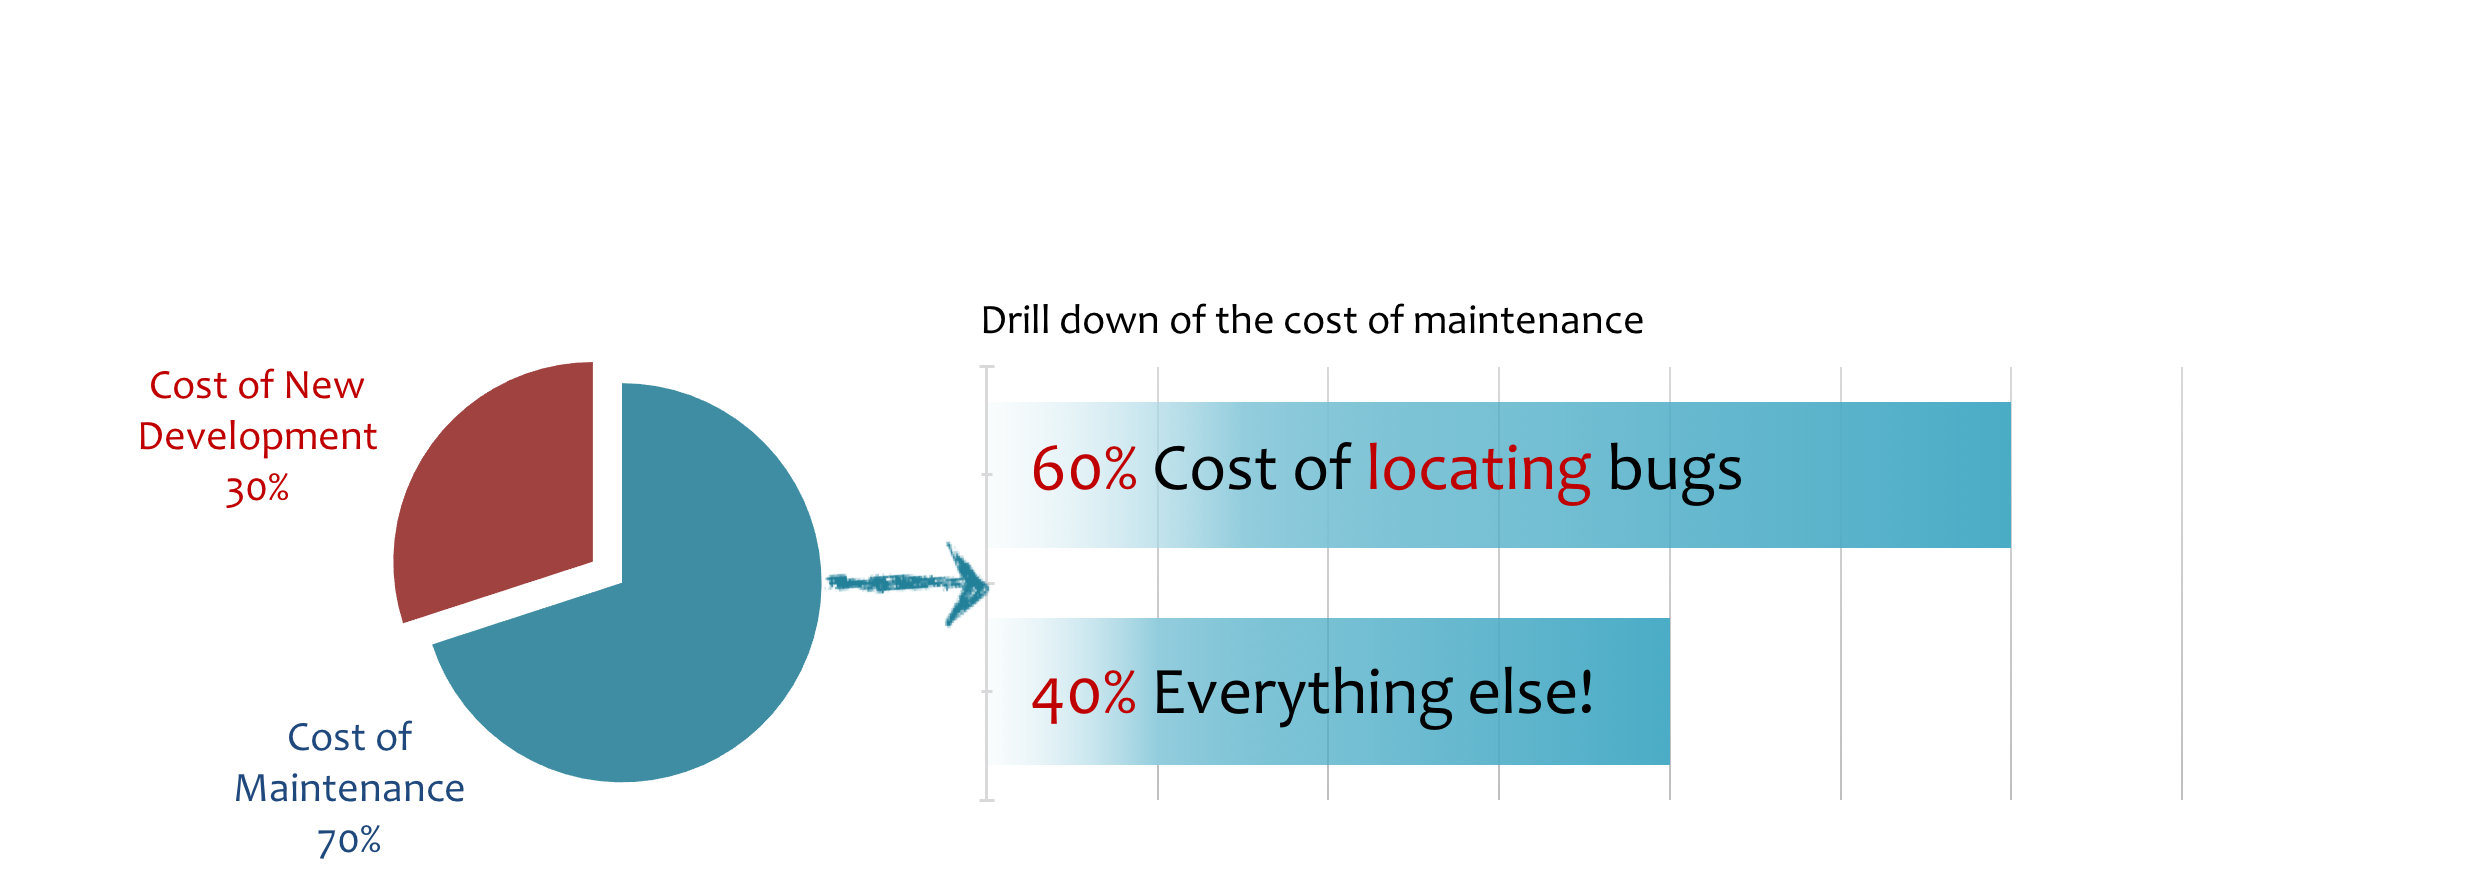
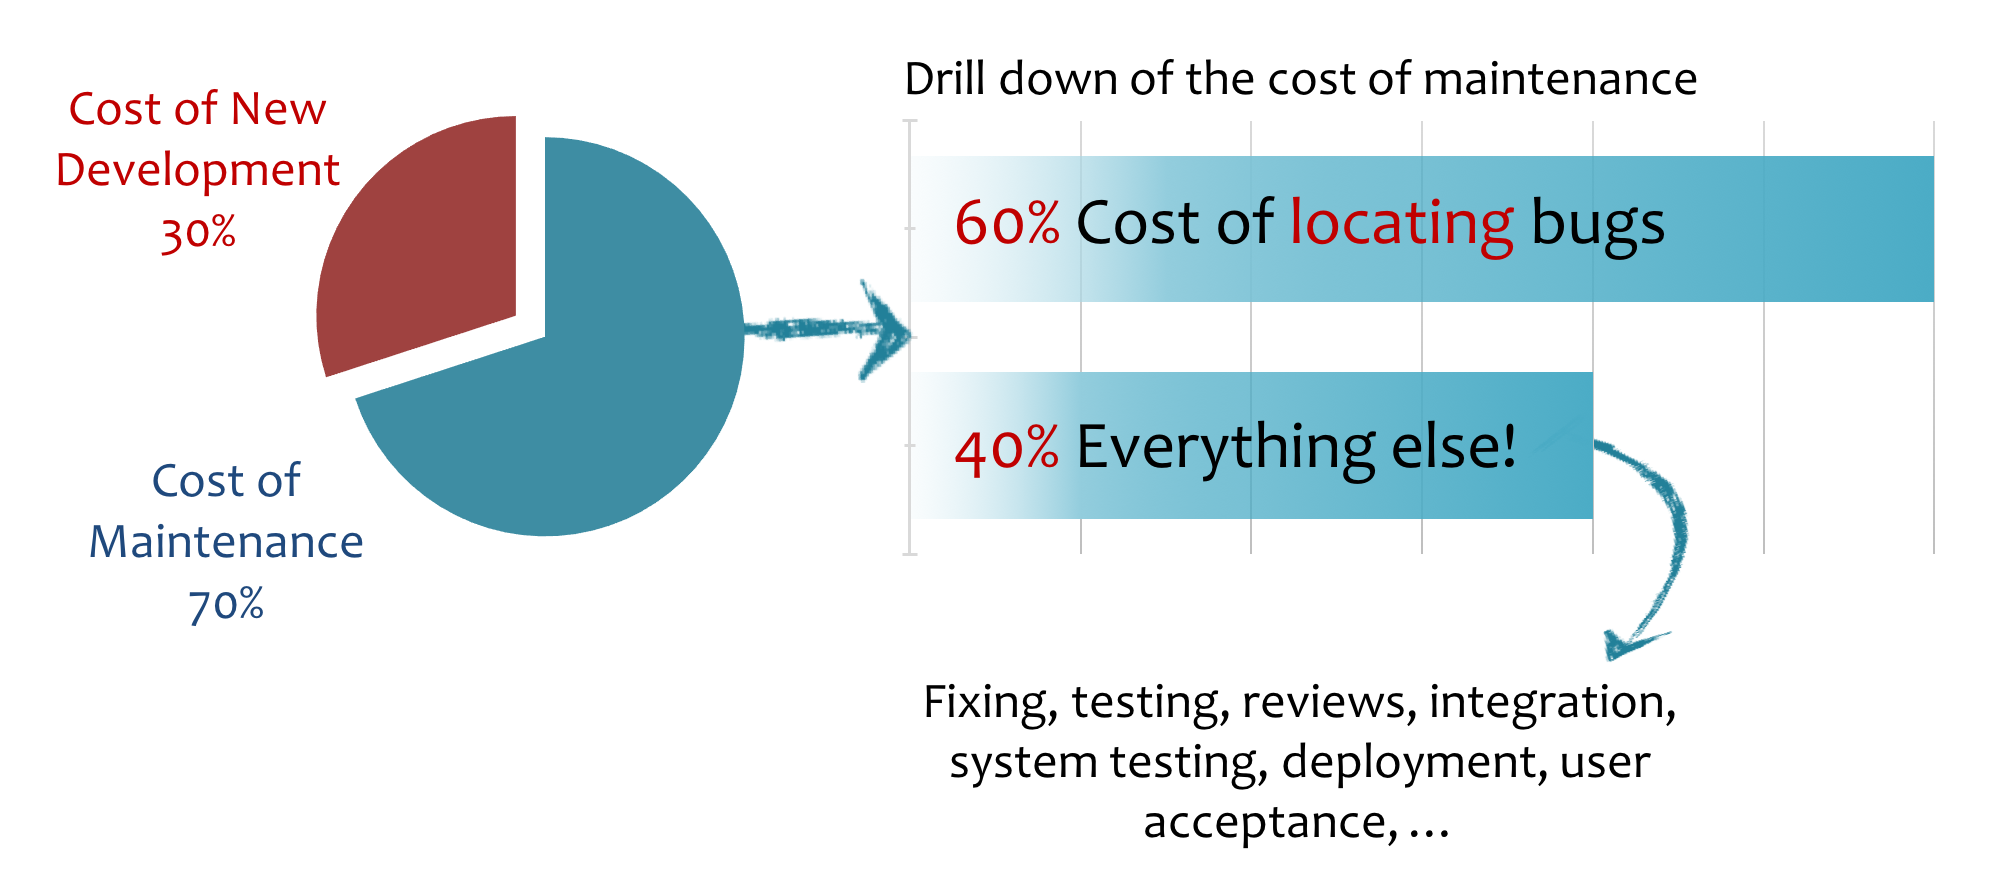
image fix #2

diff --git a/manuscript/main.md b/manuscript/main.md
@@ -91,7 +91,7 @@ Removing dead code is a quick win by all means. It doesn't take time and gives a
 {icon=quote-left}
 G> *Duplication may be the root of all evil in software*
 G>
-G> *\- Robert C Martin, in his book: Clean Coding - A Handbook of Agile Software Craftsmanship *
+G> *\- Robert C Martin*
 
 It is interesting to read what gurus write about code duplication. It is like writing about a plague or a catastrophe which you should avoid by all means.
 
@@ -105,14 +105,13 @@ Robert C Martin (aka uncle Bob), the famous author, speaker and developer, says 
 
 [^cleancoding]: This is mentioned in his famous book: *Clean Code: A Handbook of Agile Software Craftsmanship*
 
-[^bobarticle]: Uncle Bob mentioned that explicitly in a caution box in this article: [
-Robert C. Martin’s Clean Code Tip of the Week #1: An Accidental Doppelgänger in Ruby](http://www.informit.com/articles/article.aspx?p=1313447)
+[^bobarticle]: Uncle Bob mentioned this explicitly in his article at infoq: [Robert C. Martin’s Clean Code Tip of the Week #1: An Accidental Doppelgänger in Ruby](http://www.informit.com/articles/article.aspx?p=1313447)
 
 #### What's evil about code duplication
 
 In the introduction, I have mentioned the results of a study about software expenditure. They found that 70 billion of the 100 billion expenditure on software products on a 10-year period were spent on maintenance; and 60% of which is consumed to locate defective code [1]:
 
-![60% of the maintenance effort is spent on locating bugs. That is, debugging and chasing code lines till you finally point to a lines of code and say: 'This is it'. the remaining 40% are for everything else: Fixing, Testing, Reviews, Integration & system testing, Deployment, User Acceptance,...](images/duplicatecode/costoflocatingbugs.png)
+![60% of the maintenance effort is spent on locating bugs. That is, debugging and chasing code lines till you finally point to a lines of code and say 'I found the bug'. The remaining 40% are for everything else: Fixing, testing, reviews, integration, system testing, deployment, user Acceptance,...](images/duplicatecode/costoflocatingbugs.png)
 
 #### The fundamental pattern of software development
 
